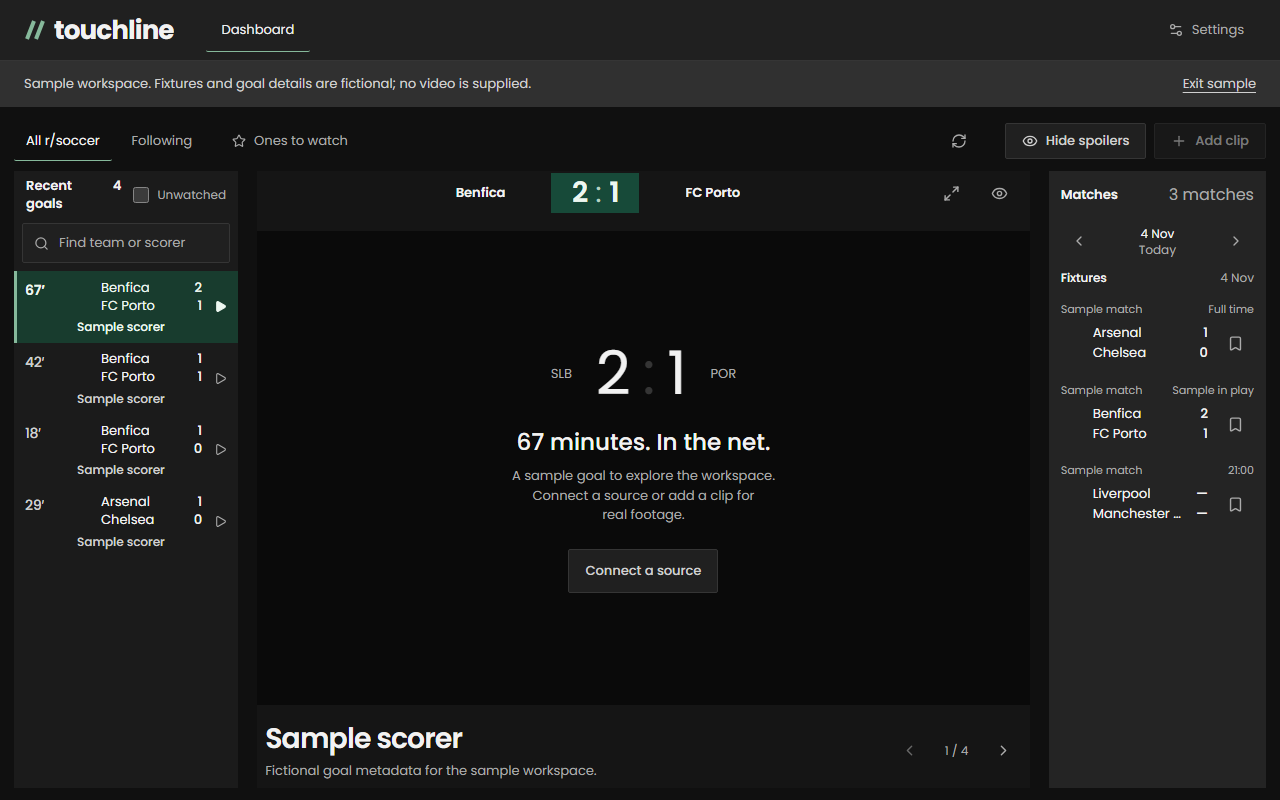
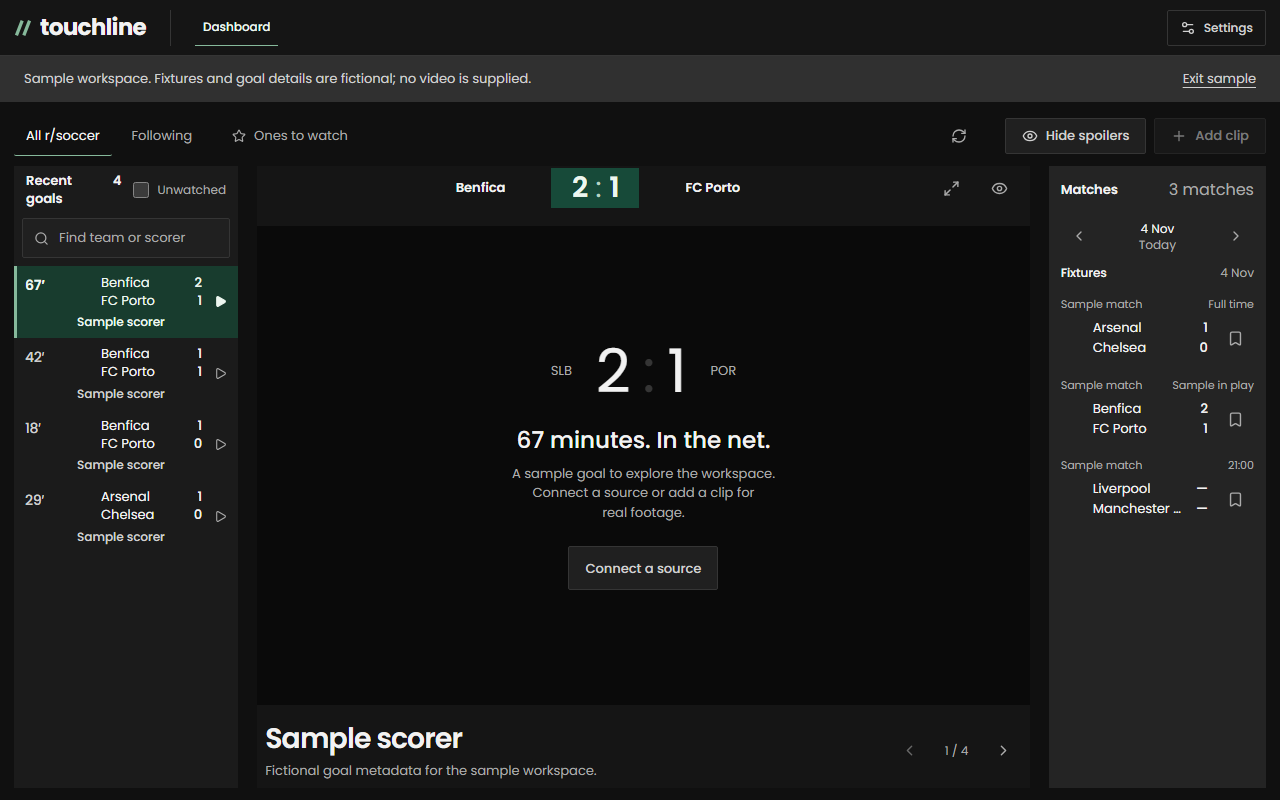
Refine masthead proportions navigation and settings control

diff --git a/web/src/style.css b/web/src/style.css
@@ -2914,3 +2914,92 @@ summary:focus-visible {
   background: var(--color-green-hover);
   color: var(--color-green-ink);
 }
+
+/* Masthead: a compact wordmark, a separated destination, a quiet settings key. */
+.topbar {
+  min-height: 56px;
+  padding: var(--space-xs) clamp(var(--space-xs), 1.1vw, var(--space-md));
+  gap: var(--space-lg);
+  background: var(--color-player-surface);
+  border-bottom: 1px solid var(--color-rule);
+}
+.topbar .brand {
+  font-size: 23px;
+  gap: var(--space-xs);
+  letter-spacing: -0.7px;
+}
+.topbar .brand > .brand-mark {
+  width: 18px;
+  height: 22px;
+}
+.topbar nav {
+  align-self: center;
+  align-items: center;
+  border-left: 1px solid var(--color-rule);
+  padding-left: var(--space-lg);
+  gap: 0;
+}
+.topbar nav button {
+  min-height: 36px;
+  padding: var(--space-2xs) var(--space-xs);
+  font-size: var(--text-xs);
+  font-weight: 500;
+  color: var(--color-muted);
+  border-radius: 0;
+}
+.topbar nav button[aria-current="page"] {
+  color: var(--color-green-ink);
+  background: var(--color-clear);
+}
+.topbar .source-status {
+  min-height: 36px;
+  padding: var(--space-2xs) var(--space-sm);
+  border: 1px solid var(--color-rule);
+  font-size: var(--text-xs);
+  font-weight: 500;
+  color: var(--color-ink-2);
+  gap: var(--space-xs);
+  margin-left: auto;
+}
+.topbar .source-status:hover {
+  background: var(--color-paper-2);
+  border-color: var(--color-surface-edge);
+  color: var(--color-ink);
+}
+.topbar .source-status[aria-current="page"] {
+  background: var(--color-green-selected);
+  border-color: var(--color-green-signal);
+  color: var(--color-green-ink);
+}
+@media (max-width: 760px) {
+  .topbar {
+    min-height: 52px;
+    padding: var(--space-2xs) var(--space-xs);
+    gap: var(--space-xs);
+  }
+  .topbar .brand {
+    font-size: 18px;
+    gap: var(--space-2xs);
+  }
+  .topbar .brand > .brand-mark {
+    width: 14px;
+    height: 18px;
+  }
+  .topbar nav {
+    flex: 1;
+    padding-left: var(--space-xs);
+  }
+  .topbar nav button {
+    padding-inline: var(--space-2xs);
+    font-size: 11px;
+  }
+  .topbar .source-status {
+    padding-inline: var(--space-xs);
+    gap: var(--space-2xs);
+    font-size: 11px;
+  }
+  .topbar .source-status svg {
+    width: 14px;
+    height: 14px;
+  }
+}

diff --git a/web/src/App.tsx b/web/src/App.tsx
@@ -612,9 +612,7 @@ export default function App() {
           className="source-status"
           aria-label="Settings"
           aria-current={view !== "goals" ? "page" : undefined}
-          title={
-            sample ? "Sample workspace" : `${connected}/2 sources connected`
-          }
+          title="Favourite teams and connections"
           onClick={() => navigate("teams")}
         >
           <Settings2 size={16} />
